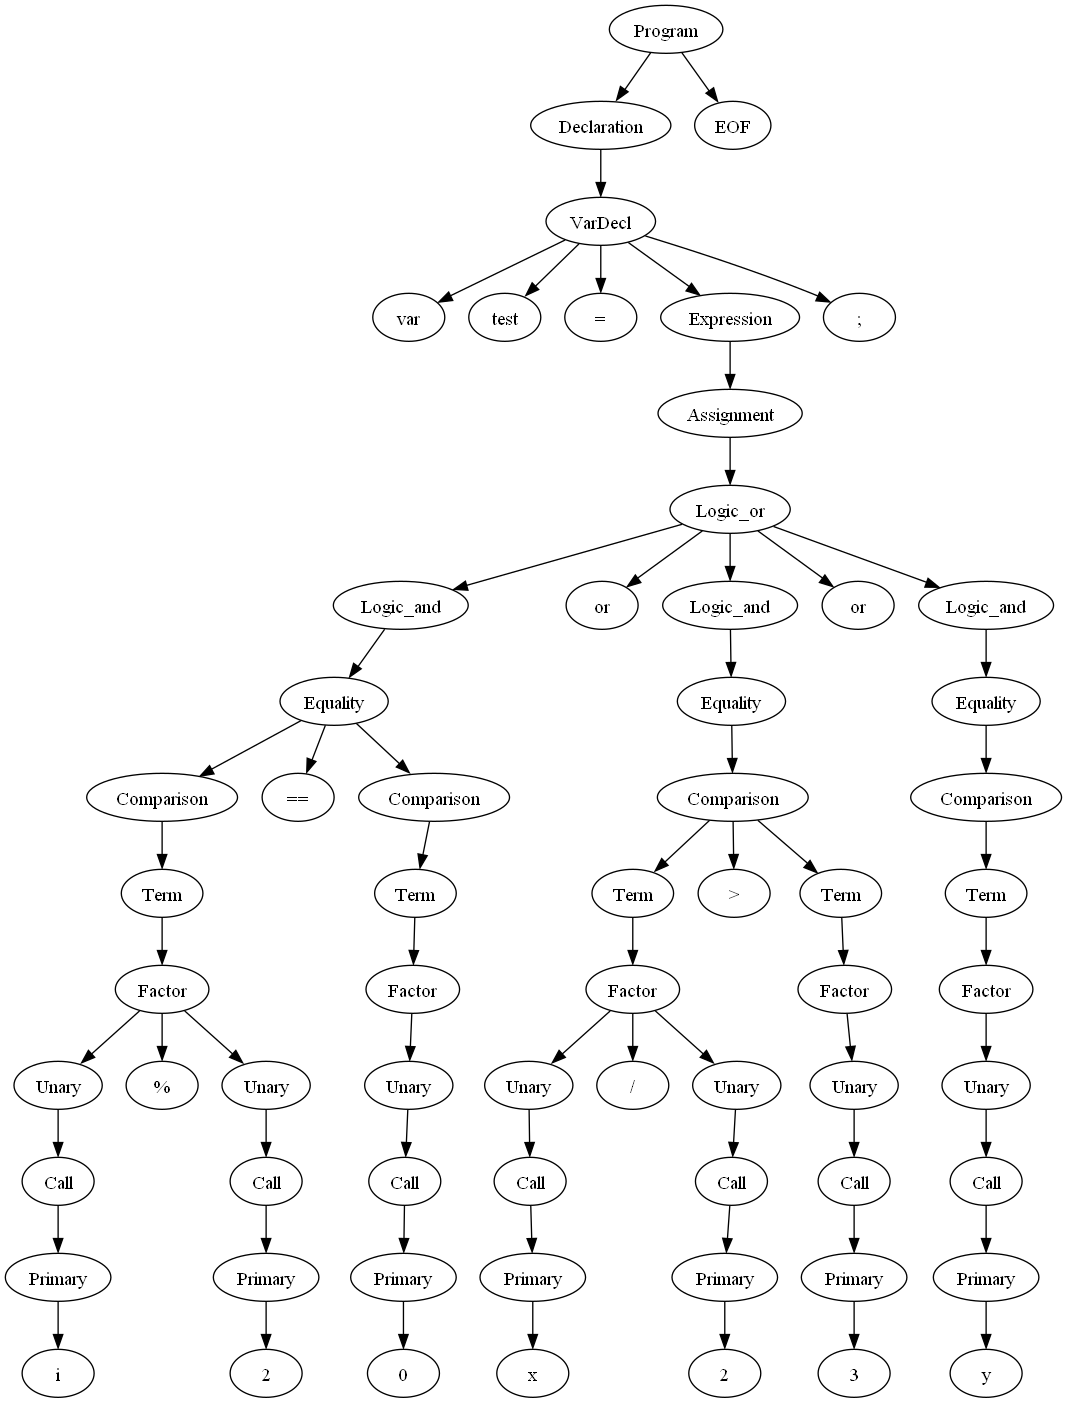
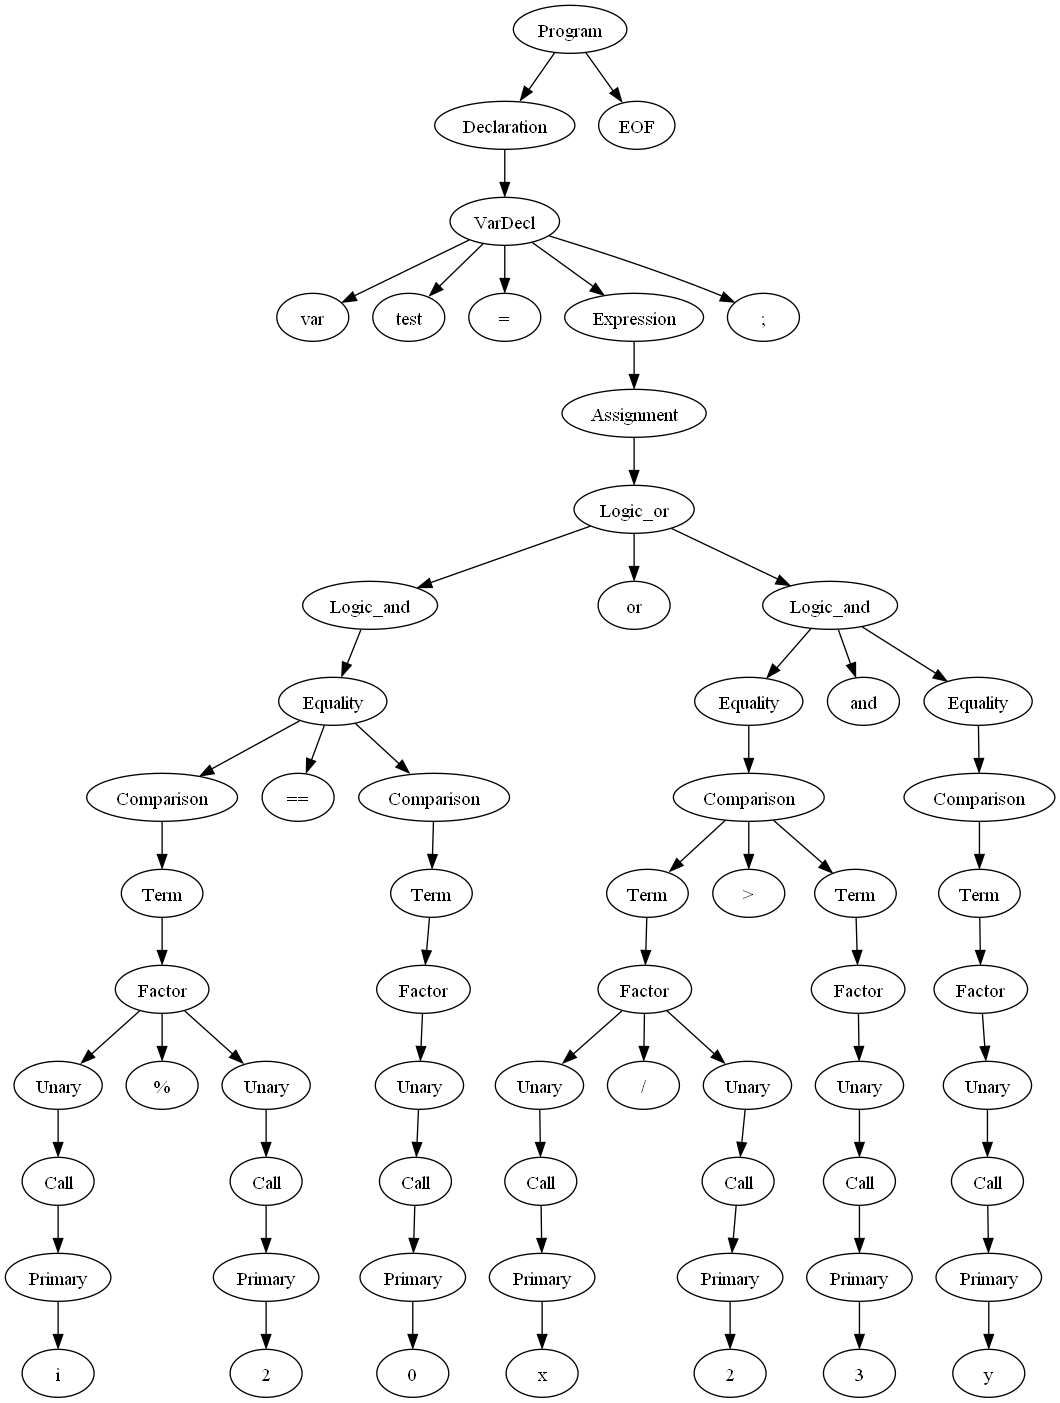
Logic And update

diff --git a/src/SymbolTable/table_generator.py b/src/SymbolTable/table_generator.py
@@ -2,7 +2,6 @@ from CompiScript.compiscriptVisitor import compiscriptVisitor
 from CompiScript.compiscriptParser import compiscriptParser
 from SymbolTable.symbol import Symbol, Variable, Function, Class, Scope
 from SymbolTable.types import DataType, AnyType, BooleanType, NumberType, StringType, NilType
-from Utils.regex_controller import trim_expression
 from tabulate import tabulate
 from typing import List, Type
 
@@ -229,9 +228,26 @@ class TableGenerator(compiscriptVisitor):
             # Check if we are in a valid assignment context
             if self.current_variable is not None:
                 # Set the data type of the variable
+                self.printf("Setting data type for logic or")
                 self.current_variable.set_values(BooleanType())
         else:
             self.printf("INFO -> This is a wrapper node")
+            # Visit the rest of the tree
+            self.visitChildren(ctx)
 
-        # Visit the rest of the tree
-        self.visitChildren(ctx)
+
+    def visitLogic_and(self, ctx:compiscriptParser.Logic_andContext):
+        self.printf("INFO -> Visiting Logic And")
+        
+        # Check if the logic and is not a wrapper node
+        if ctx.getChildCount() > 1:
+            self.printf("INFO -> This is a valid logic and")
+            # Check if we are in a valid assignment context
+            if self.current_variable is not None:
+                # Set the data type of the variable
+                self.printf("Setting data type for logic and")
+                self.current_variable.set_values(BooleanType())
+        else:
+            self.printf("INFO -> This is a wrapper node")
+            # Visit the rest of the tree
+            self.visitChildren(ctx)
